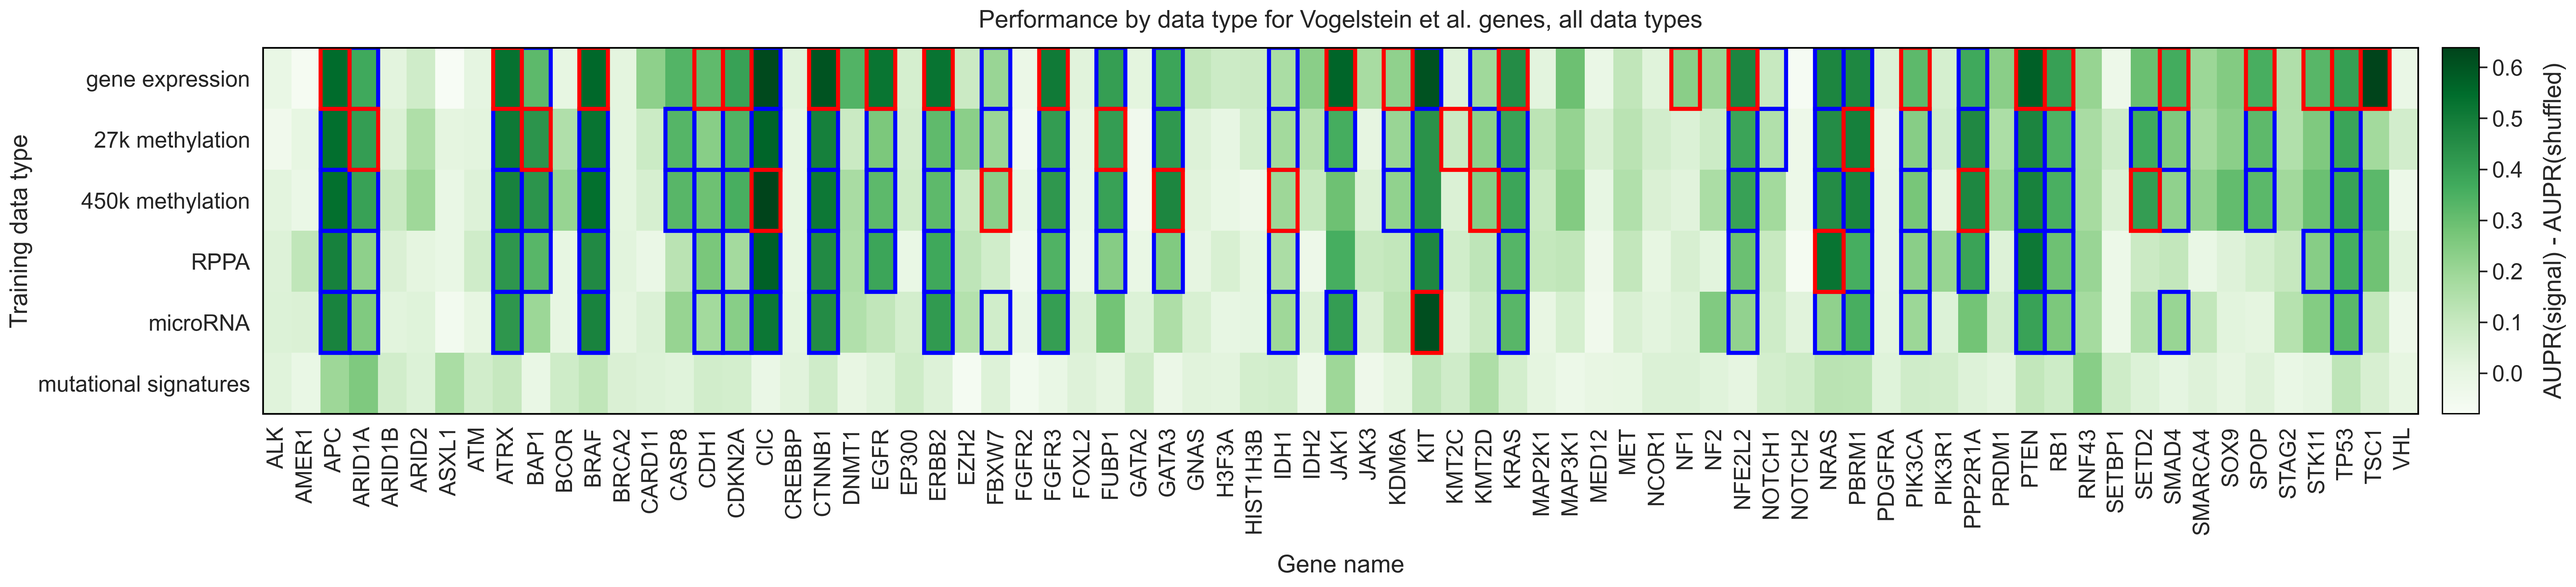
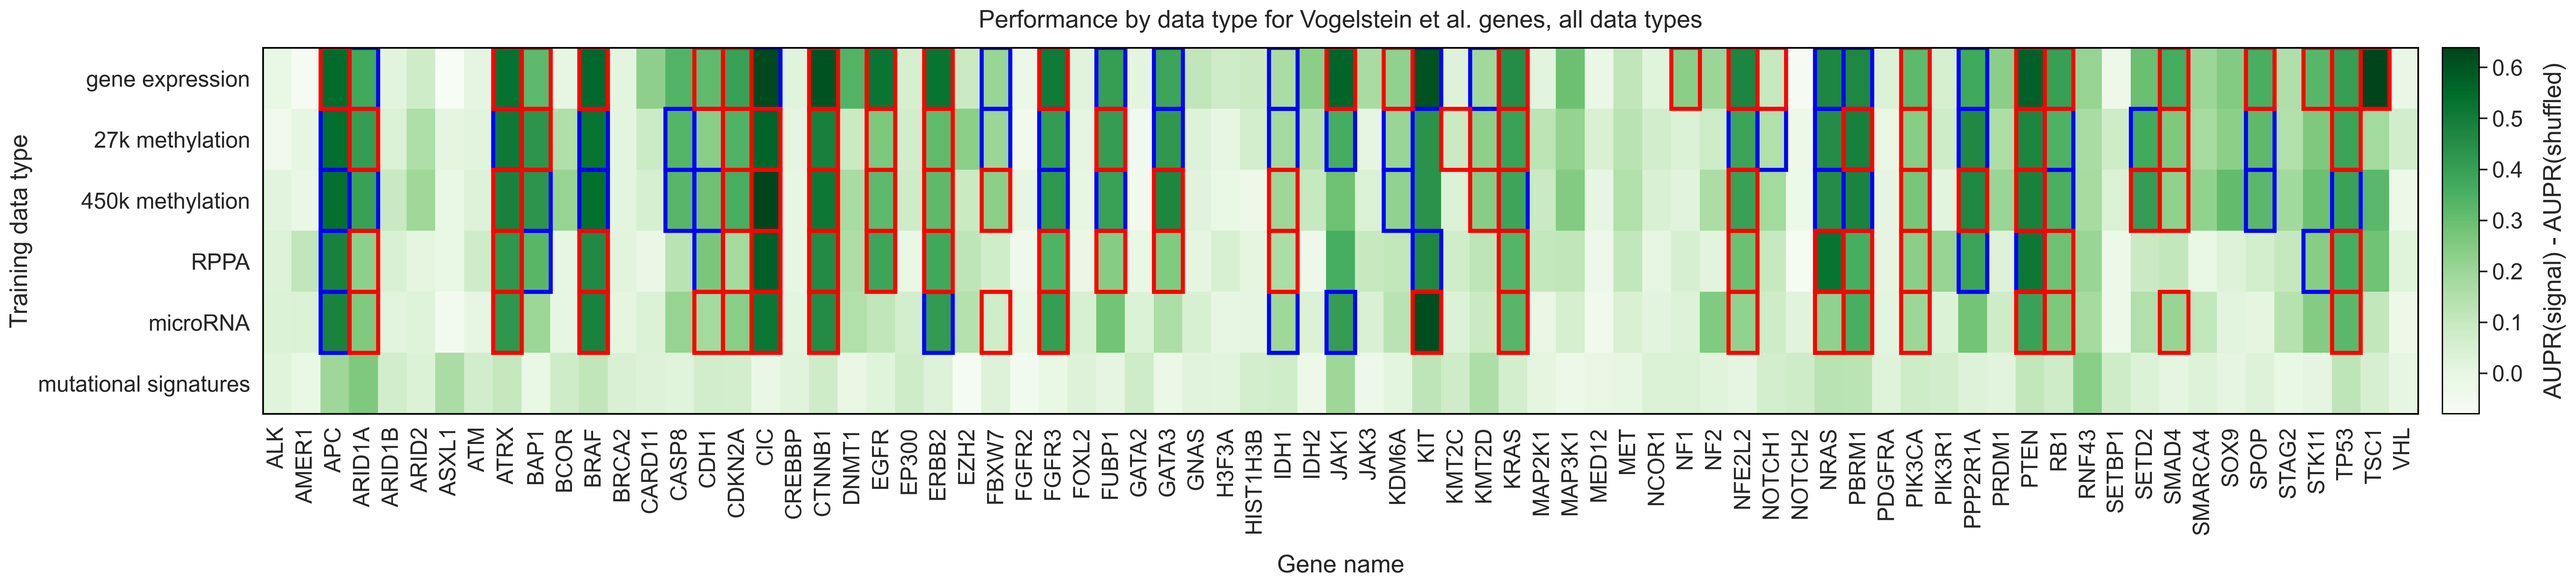
update heatmaps to show statistical equivalence with best performer

diff --git a/content/07.supp_info.md b/content/07.supp_info.md
@@ -43,7 +43,7 @@ Proportion of samples from each TCGA cancer type that are "dropped" as more data
 Table: Number of samples from each TCGA cancer type that are "dropped" as more data types are added to the analysis. The "base" column indicates the number of samples that are present per cancer type in the final intersection of all data types (i.e. each sample counted in the last column has data for each of the 7 data types, including gene expression (not listed here) and somatic mutations). {#tbl:cancer_type_proportions}
 
 ![
-Heatmap displaying predictive performance for mutations in each of the 84 genes from the Vogelstein et al. gene set, across gene expression and the two DNA methylation arrays. Each cell quantifies performance for a target gene, using predictive features derived from a particular data type. Blue highlights indicate that the given data type provides significantly better predictions than the permuted baseline for the given gene; red highlights indicate the same and additionally that the given data type provides the best performance for the given gene, relative to other data types.
+Heatmap displaying predictive performance for mutations in each of the 84 genes from the Vogelstein et al. gene set, across gene expression and the two DNA methylation arrays. Each cell quantifies performance for a target gene, using predictive features derived from a particular data type. Blue highlights indicate that the given data type provides significantly better predictions than the permuted baseline for the given gene; red highlights indicate the same and additionally that the given data type provides statistically equivalent performance to the data type with the best average performance (determined by pairwise _t_-tests with FDR correction).
 ](images/supp_figure_2.png){#fig:methylation_heatmap width=90%}
 
 ![

diff --git a/content/04.results.md b/content/04.results.md
@@ -126,7 +126,7 @@ Notable exceptions included _NF1_ (only well-predicted using gene expression dat
 Gene expression provided the best performance in 25/39 genes with at least one significant data type (red highlighted boxes in Figure {@fig:heatmap}), but only 2 of those 25 genes did not have any other significantly predictive data types (_NF1_ and _TSC1_); in the other 23 genes one or more non-expression data types also outperformed the permuted baseline.
 
 ![
-Heatmap displaying predictive performance for mutations in each of the 75 genes from the Vogelstein et al. gene set, across all 6 TCGA data modalities. Each cell quantifies performance for a target gene, using predictive features derived from a particular data type. Blue highlights indicate that the given data type provides significantly better predictions than the permuted baseline for the given gene; red highlights indicate the same and additionally that the given data type provides the best performance for the given gene, relative to other data types.
+Heatmap displaying predictive performance for mutations in each of the 75 genes from the Vogelstein et al. gene set, across all 6 TCGA data modalities. Each cell quantifies performance for a target gene, using predictive features derived from a particular data type. Blue highlights indicate that the given data type provides significantly better predictions than the permuted baseline for the given gene; red highlights indicate the same and additionally that the given data type provides statistically equivalent performance to the data type with the best average performance (determined by pairwise _t_-tests with FDR correction).
 ](images/figure_6.png){#fig:heatmap width="90%"}
 
 ### Simple multi-omics baseline provides no performance benefit
